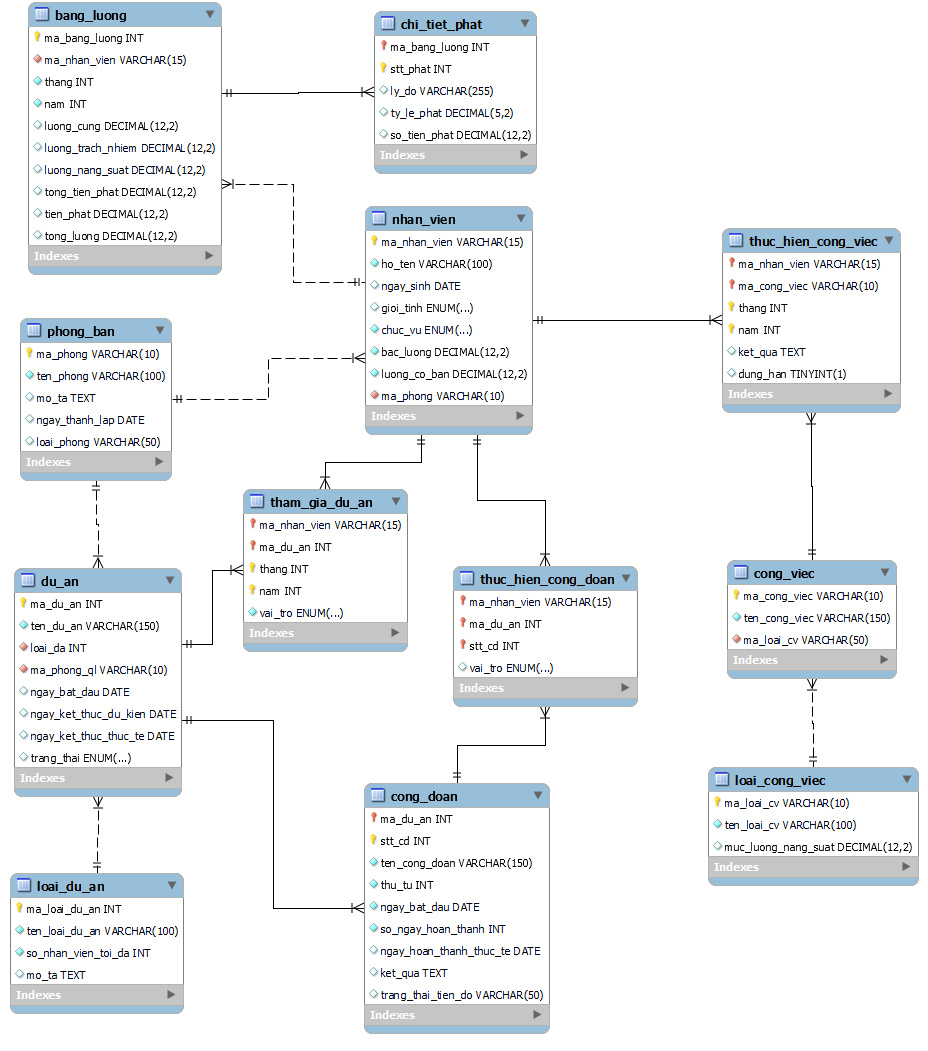
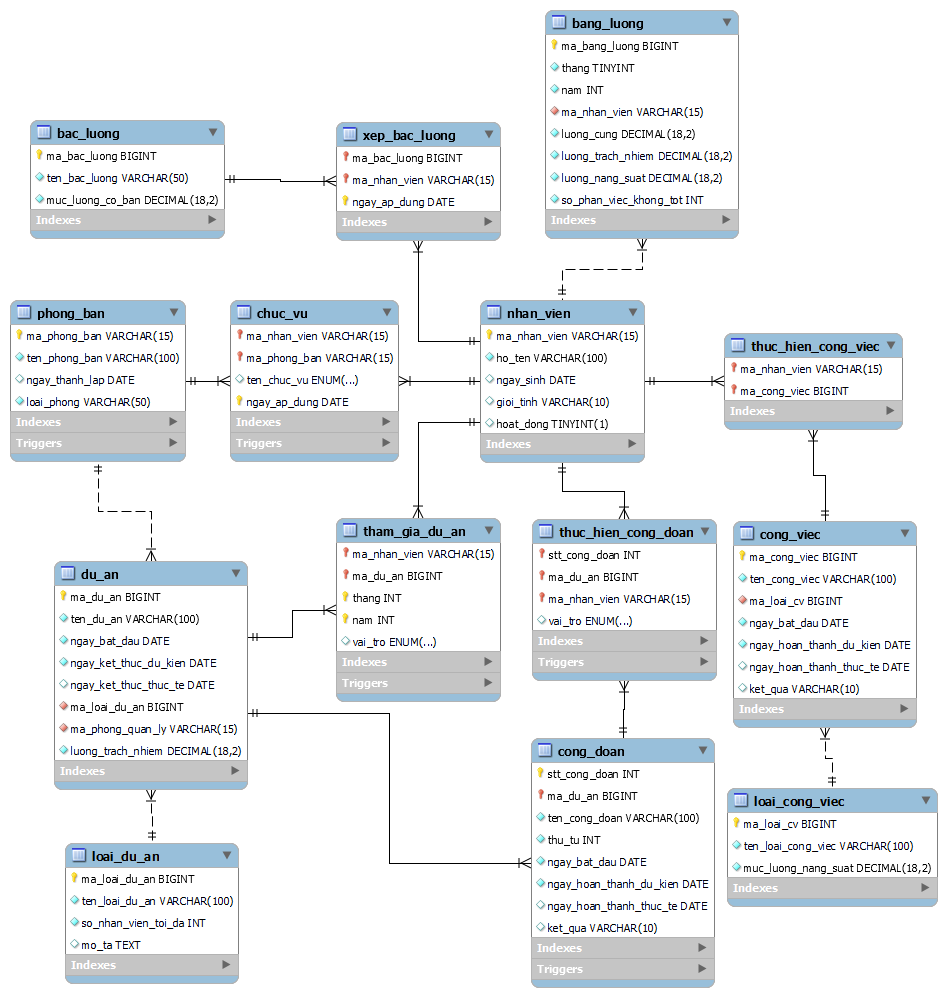
.

diff --git a/csdlnc-front/src/app/page/layout/SideBarLeft.tsx b/csdlnc-front/src/app/page/layout/SideBarLeft.tsx
@@ -25,7 +25,7 @@ function SideBarLeft() {
         <nav className="navbar bg-light navbar-light">
           <a href="index.html" className="navbar-brand mx-4 mb-3">
             <h3 className="text-primary">
-              <i className="fa fa-hashtag me-2"></i>NHÓM 1
+              <i className="fa fa-hashtag me-2"></i>BTL CSDLNC
             </h3>
           </a>
           <div className="d-flex align-items-center ms-4 mb-4">
@@ -39,7 +39,7 @@ function SideBarLeft() {
               <div className="bg-success rounded-circle border border-2 border-white position-absolute end-0 bottom-0 p-1"></div>
             </div>
             <div className="ms-3">
-              <h6 className="mb-0">Nhóm 1</h6>
+              {/* <h6 className="mb-0">Nhóm 1</h6> */}
               <span>Admin</span>
             </div>
           </div>